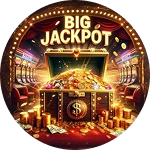
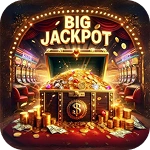
navigation corrections

diff --git a/lib/src/add_customer/view/add_customer_page.dart b/lib/src/add_customer/view/add_customer_page.dart
@@ -3,6 +3,7 @@ import 'package:gb_lottery_b2b/src/add_customer/view/widgets/add_customer_form_s
 import 'package:gb_lottery_b2b/src/add_customer/view/widgets/add_customer_radio_button.dart';
 import 'package:gb_lottery_b2b/src/app/color_palette.dart';
 import 'package:gb_lottery_b2b/src/common/widgets/app_bar_with_back.dart';
+import 'package:go_router/go_router.dart';
 import 'package:google_fonts/google_fonts.dart';
 
 class AddCustomerPage extends StatefulWidget {
@@ -65,20 +66,23 @@ class _AddCustomerPageState extends State<AddCustomerPage> {
     final scale = w / 375;
     double s(double v) => v * scale;
 
-    return Container(
-      width: double.infinity,
-      height: s(50),
-      decoration: BoxDecoration(
-        borderRadius: BorderRadius.circular(s(10)),
-        gradient: ColorPalette.buttonGradient,
-      ),
-      child: Center(
-        child: Text(
-          "Done",
-          style: GoogleFonts.dmSans(
-            fontSize: s(16),
-            fontWeight: FontWeight.w700,
-            color: ColorPalette.whitetext,
+    return GestureDetector(
+      onTap: () => context.go('/customer'),
+      child: Container(
+        width: double.infinity,
+        height: s(50),
+        decoration: BoxDecoration(
+          borderRadius: BorderRadius.circular(s(10)),
+          gradient: ColorPalette.buttonGradient,
+        ),
+        child: Center(
+          child: Text(
+            "Done",
+            style: GoogleFonts.dmSans(
+              fontSize: s(16),
+              fontWeight: FontWeight.w700,
+              color: ColorPalette.whitetext,
+            ),
           ),
         ),
       ),

diff --git a/lib/src/customer_edit/view/customer_edit_screen.dart b/lib/src/customer_edit/view/customer_edit_screen.dart
@@ -2,6 +2,7 @@
 import 'package:flutter/material.dart';
 import 'package:gb_lottery_b2b/src/app/color_palette.dart';
 import 'package:gb_lottery_b2b/src/common/widgets/app_bar_text_with_back.dart';
+import 'package:go_router/go_router.dart';
 import 'package:google_fonts/google_fonts.dart';
 
 class CustomerEditScreen extends StatefulWidget {
@@ -210,17 +211,20 @@ void initState() {
     );
   }
   Widget _buildSubmitButton(double Function(double) s) {
-    return Container(
-      width: double.infinity,
-      height: s(54),
-      alignment: Alignment.center,
-      decoration: BoxDecoration(
-        gradient: const LinearGradient(colors: [Color(0xFFDFC45C), Color(0xFFA89A5F)]),
-        borderRadius: BorderRadius.circular(s(8)),
-      ),
-      child: Text(
-        'Submit',
-        style: GoogleFonts.dmSans(color: Colors.white, fontSize: s(18), fontWeight: FontWeight.w600),
+    return GestureDetector(
+      onTap: () => context.go('/customer'),
+      child: Container(
+        width: double.infinity,
+        height: s(54),
+        alignment: Alignment.center,
+        decoration: BoxDecoration(
+          gradient: const LinearGradient(colors: [Color(0xFFDFC45C), Color(0xFFA89A5F)]),
+          borderRadius: BorderRadius.circular(s(8)),
+        ),
+        child: Text(
+          'Submit',
+          style: GoogleFonts.dmSans(color: Colors.white, fontSize: s(18), fontWeight: FontWeight.w600),
+        ),
       ),
     );
   }

diff --git a/lib/src/edit_profile_screen/view/edit_profile_screen.dart b/lib/src/edit_profile_screen/view/edit_profile_screen.dart
@@ -246,22 +246,25 @@ class _EditProfileScreenState extends State<EditProfileScreen> {
   }
 
   Widget _buildSubmitButton(double Function(double) s) {
-    return Container(
-      width: double.infinity,
-      height: s(54),
-      alignment: Alignment.center,
-      decoration: BoxDecoration(
-        gradient: const LinearGradient(
-          colors: [Color(0xFFDFC45C), Color(0xFFA89A5F)],
+    return GestureDetector(
+      onTap: () => context.go('/profile'),
+      child: Container(
+        width: double.infinity,
+        height: s(54),
+        alignment: Alignment.center,
+        decoration: BoxDecoration(
+          gradient: const LinearGradient(
+            colors: [Color(0xFFDFC45C), Color(0xFFA89A5F)],
+          ),
+          borderRadius: BorderRadius.circular(s(8)),
         ),
-        borderRadius: BorderRadius.circular(s(8)),
-      ),
-      child: Text(
-        'Submit',
-        style: GoogleFonts.dmSans(
-          color: Colors.white,
-          fontSize: s(18),
-          fontWeight: FontWeight.w600,
+        child: Text(
+          'Submit',
+          style: GoogleFonts.dmSans(
+            color: Colors.white,
+            fontSize: s(18),
+            fontWeight: FontWeight.w600,
+          ),
         ),
       ),
     );

diff --git a/lib/src/dashboard/view/widgets/dashboard_game_card.dart b/lib/src/dashboard/view/widgets/dashboard_game_card.dart
@@ -41,7 +41,7 @@ class DashboardGameCard extends StatelessWidget {
                 height: s(50),
                 width: s(50),
                 decoration: BoxDecoration(
-                  shape: BoxShape.circle,
+                  borderRadius: BorderRadius.circular(8),
                   image: DecorationImage(
                     image: AssetImage(image),
                     fit: BoxFit.cover,

diff --git a/lib/src/myCart_Screen/view/myCart_screen.dart b/lib/src/myCart_Screen/view/myCart_screen.dart
@@ -70,7 +70,7 @@ class _MycartScreenState extends State<MycartScreen> {
               SizedBox(height: s(10),),
               GestureDetector(
                 onTap: () {
-                  //context.push('/profile');
+                  context.go('/dashboard');
                 },
                 child: Container(
                   width: double.infinity,
